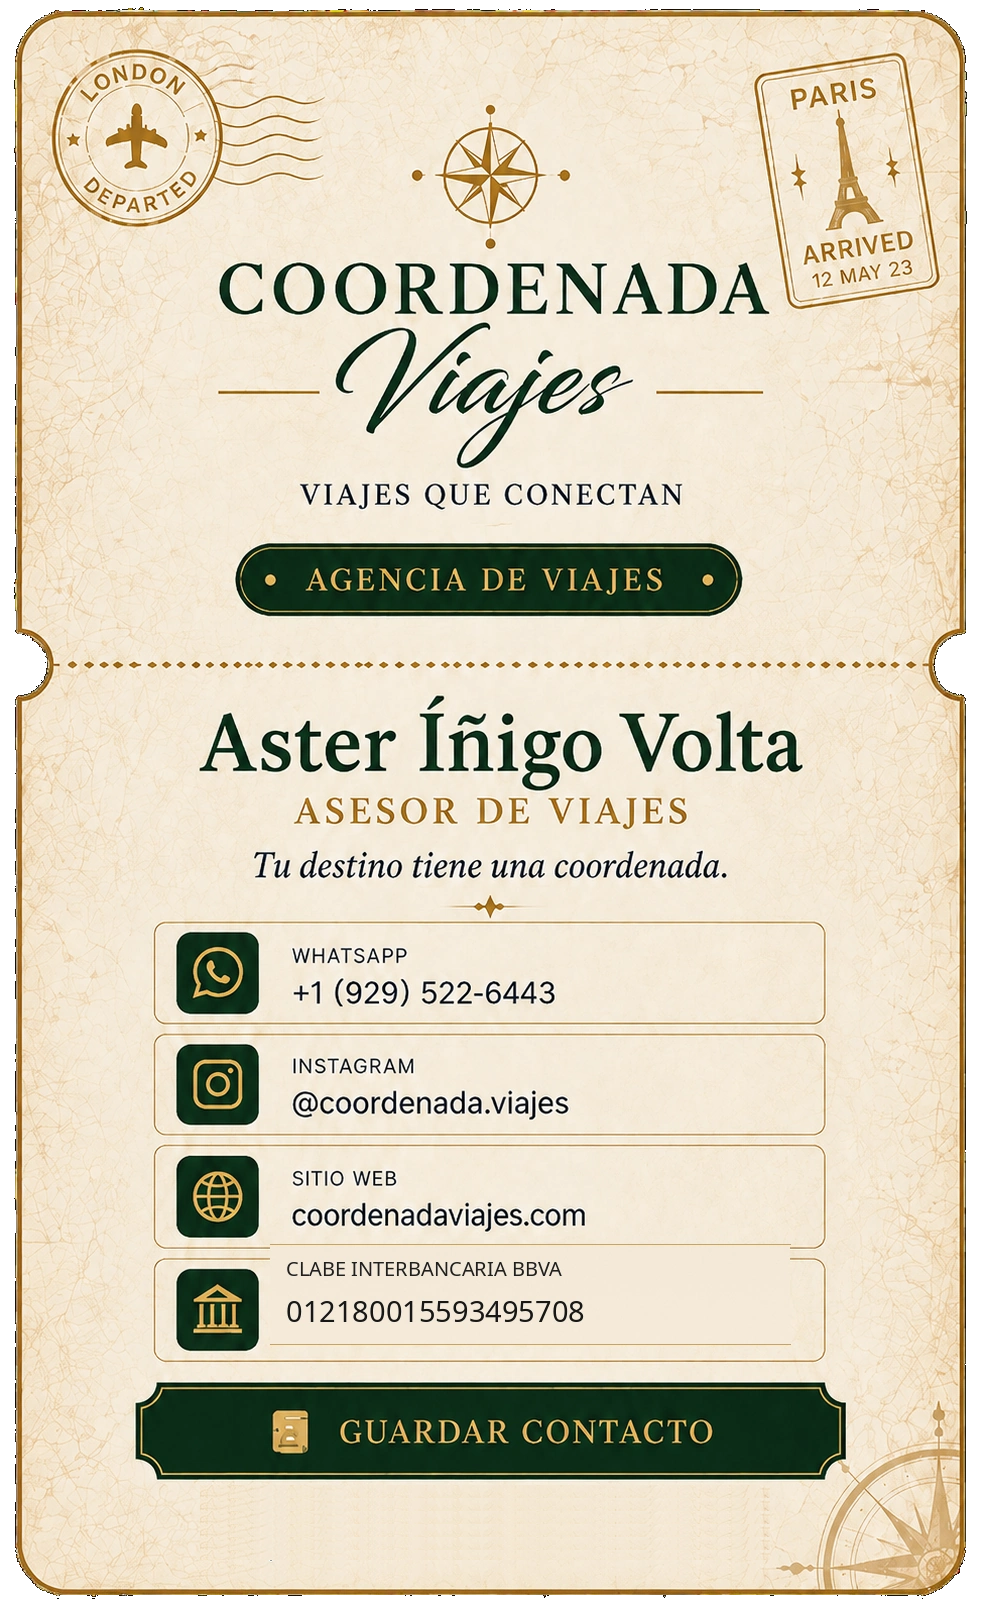
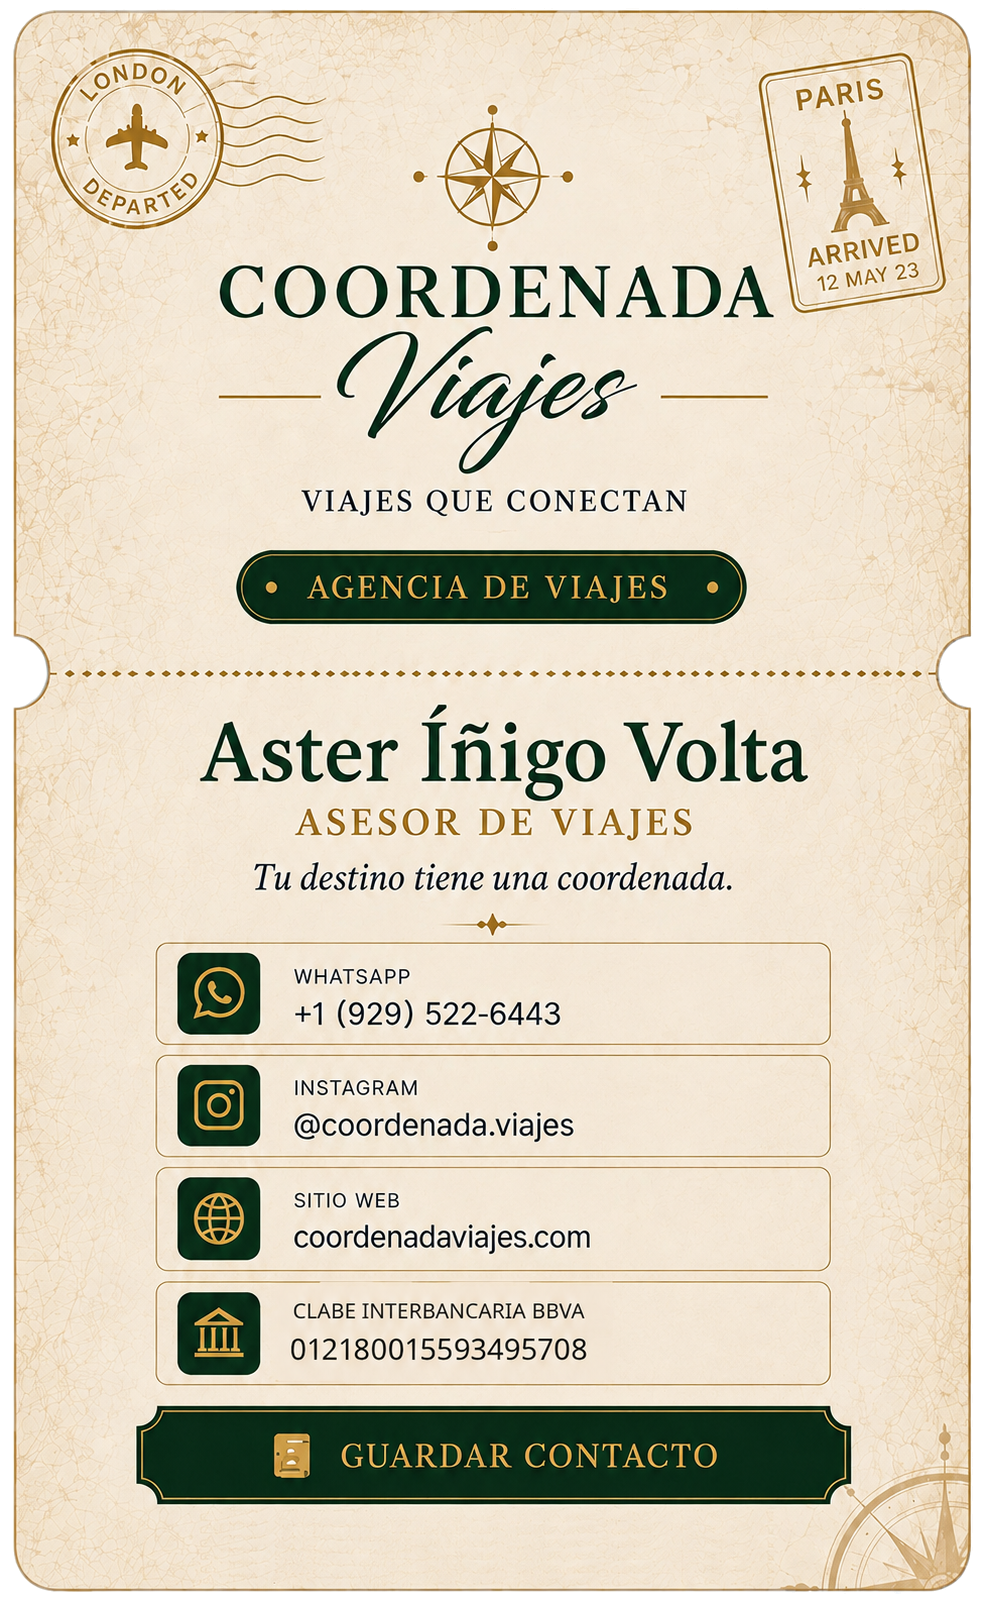
Fix bottom spacing on Coordenada Viajes card (locked artwork rebuild)
- Replace card artwork with corrected LOCKED assets (compass/flourish
  repositioned to close the oversized empty area below Guardar Contacto)
- Re-add transparent alpha channel outside the rounded card silhouette
  (delivered assets had opaque white canvas fill, which showed as a
  visible white box on the page background)
- Same 984x1599 aspect ratio; update hotspot coordinates to match the
  rebuilt artwork's new internal layout

Changed region(s): [[0.0, 0.0, 1.0, 1.0], [0.6707, 0.2452, 0.7622, 0.2758], [0.2134, 0.2452, 0.3049, 0.2758]]

diff --git a/tarjeta-cv.html b/tarjeta-cv.html
@@ -145,28 +145,28 @@
       draggable="false"
     >
 
-    <!-- transparent interactive overlays only; positions measured from the locked 984x1599 reference -->
+    <!-- transparent interactive overlays only; positions measured from the locked 984x1599 reference (2026-08-26 rebuild) -->
 
     <a class="hotspot" href="https://wa.me/19295226443" target="_blank" rel="noopener noreferrer"
-       style="left:15.2439%; top:54.9093%; width:66.7683%; height:6.1914%;"
+       style="left:15.7520%; top:58.9744%; width:68.5976%; height:6.2539%;"
        aria-label="WhatsApp +1 (929) 522-6443"></a>
 
     <a class="hotspot" href="https://www.instagram.com/coordenada.viajes/" target="_blank" rel="noopener noreferrer"
-       style="left:15.2439%; top:61.7261%; width:66.7683%; height:6.1914%;"
+       style="left:15.7520%; top:65.9787%; width:68.5976%; height:6.3164%;"
        aria-label="Instagram @coordenada.viajes"></a>
 
     <a class="hotspot" href="https://coordenadaviajes.com" target="_blank" rel="noopener noreferrer"
-       style="left:15.2439%; top:68.5428%; width:66.7683%; height:6.1914%;"
+       style="left:15.7520%; top:72.9831%; width:68.5976%; height:6.4415%;"
        aria-label="Sitio web coordenadaviajes.com"></a>
 
     <button type="button" class="hotspot" onclick="copyClabeCV(this)"
-       style="left:15.2439%; top:75.3596%; width:66.7683%; height:6.1914%;"
+       style="left:15.7520%; top:80.1751%; width:68.5976%; height:6.3790%;"
        aria-label="Copiar CLABE interbancaria BBVA 012180015593495708">
       <span class="sr-only" id="clabe-cv">012180015593495708</span>
     </button>
 
     <button type="button" class="hotspot" onclick="saveContactCV()"
-       style="left:13.7195%; top:82.9894%; width:70.3252%; height:5.6911%;"
+       style="left:13.9228%; top:87.9300%; width:72.4593%; height:6.0663%;"
        aria-label="Guardar contacto"></button>
 
     <p class="copy-toast" id="copy-toast" role="status" aria-live="polite">¡CLABE copiada!</p>
